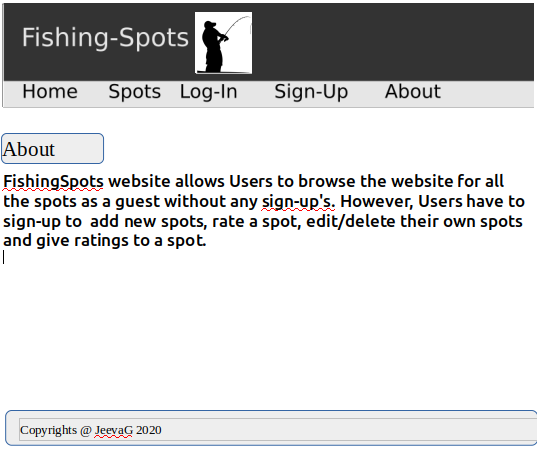
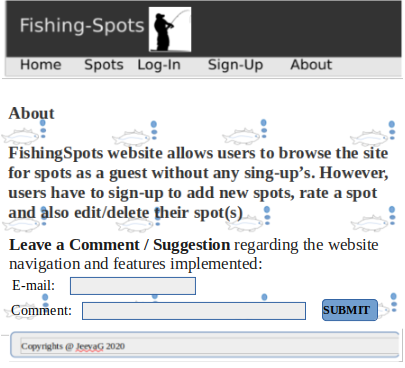
Indie project checkpoint#1 complete

diff --git a/ProjectPlan.md b/ProjectPlan.md
@@ -13,22 +13,94 @@
 ### Week 4
 
 - [ ] List technologies, versions and how they will be used
-- [ ] Weekly journal entry
+- [ ] Weekly timelog entry
 - Implement the changes from the feedback from checkpoint 1
 - [ ] Set up logging
-- [ ] Create class uml diagram
-
+- [ ] Added few more desing screens for spot-add, spot-edit and spot-delete. 
+- [ ] Finish projectPlan.md file.
 
 ### Week 5
+- [ ] Create class uml diagram
 - [ ] Complete database design
 - [ ] Create the database and tables
+- [ ] Weekly timeLog entry
 - [ ] Create DAO for atleast one table
 - [ ] Create the test database
 - [ ] Create user dao unit tests
+- [ ] Create the template for all jsps using bootstrap
+- [ ] Add jsp to add a user
+
+### Week 6
+
+- [ ] Create db on AWS
+- [ ] Deploy to AWS for first time
+- [ ] Weekly timeLog entry
+- [ ] Create spot table
+- [ ] Add the spot entity (test, dev and prod dbs)
+- [ ] Build the spot search jsp
+- [ ] Build the spot add/edit/delete jsp
+- [ ] Prepare for Checkpoint 2: Database designed and created, at least one DAO implemented with Hibernate, DAO is unit tested, Log4J is implemented (no System.out.printlns), class design and any other diagrams you plan to use have been created. 
+
+### Week 7
+
+- [ ] Weekly timeLog entry
+- [ ] Set up authentication locally
+- [ ] Set up authentication on AWS
+- [ ] Review and incorporate any feedback from Checkpoint 2.
 
 
-### Week 6 and following weeks
-TODO
+### Week 8
+
+- [ ] Weekly timeLog entry
+- [ ] Integration with google maps api
+- [ ] Spots.jsp page populated with spots and when clicked on a spot would pop up the rating and reviews for that sopt from the database.
+- [ ] Prepare for Checkpoint 3: Deployed to AWS, at least one JSP that displays data from the database is implemented. 
+
+### Week 9
+- [ ] Weekly timeLog entry
+- [ ] Review and incorporate feedback from Checkpoint 3.
+- [ ] Carefully review code for standards and best practices - use a code quality tool? 
+
+### Week 8
+- [ ] Weekly timeLog entry
+- [ ] Code review
+
+### Week 9
+- [ ] Weekly timeLog entry
+- [ ] Add password reset/reminder functionality
+
+### Week 10
+- [ ] Weekly timeLog entry
+- [ ] Unit test all api integrations
+
+### Week 11 - Team project work week
+- [ ] Weekly timeLog entry
+
+### Week 12 - Team project due
+- [ ] Weekly timeLog entry
+- [ ] Review indie project and create list of todos
+
+### Week 13
+- [ ] Weekly timeLog entry
+- [ ] Complete todos identified in week 12
+- [ ] Prepare for week 13 peer code reviews
+- [ ] Code quality check
+- [ ] Review rubric to make sure I'm on target
+
+### Week 14
+- [ ] Weekly timeLog entry
+- [ ] Create final presentation
+
+### Week 15
+- [ ] Final Presentation
+- [ ] Create video
+- [ ] Finalize all documentation
+- [ ] Code quality check
+
+### Week 16
+- [ ] Weekly timeLog entry
+- [ ] Final touches before code complete
+
 
 
 

diff --git a/TimeLog.md b/TimeLog.md
@@ -10,19 +10,22 @@
 | 9/8/2020| watched week1 videos and the follow up videos | 4 | |
 | 9/9/2020| worked on week1 exercise. Tried setting up tomcat on laptop | 3 | |
 | | |  | |
-| WEEK 2 deatials and exercises |  | |
+| WEEK 2 details and exercises |  | |
 | 9/10/2020| Watched a youtube video on IntelliJ presentation | 3 | |
 | 9/13/2020| Worked on week 2 activities, git practice and creating a new repository on github for individual project | 4 | |
 | 9/14/2020| Updated problem statement for individual project and created timelog.md file | 1 | |
 | 9/15/2020| Updated timelog.md with weekly activities. Finished activity3 of week2 | 2 | |
 | | |  | |
-| WEEK 3 deatials and exercises |  | |
+| WEEK 3 details and exercises |  | |
 | 9/17/2020| Did reading from class material for log4j-logging and JUnit-unit testing | 2 | |
 | 9/18/2020| Started working on weekly demos and activites by watching weekly videos | 4 | |
 | 9/19/2020| Finished the demos and activities by watching more weekly videos | 4 | |
-
-| WEEK 4 deatials and exercises |  | |
+| | |  | |
+| WEEK 4 details and exercises |  | |
 | 9/20/2020| Started wroking on the week 3 exercise and watched related videos | 4  | |
-| 9/22/2020| Finished week 3 exercise with captcha sum and 100% code coverage | 4  | |
-| 9/23/2020| Worked on indie project timelog, project plan, problem statement | 3 | |
+| 9/22/2020| Finished week 3 exercise with captcha sum and 100% code coverage and started working on indie project | 4  | |
+| 9/23/2020| Worked on indie project user stories, desing screens, timelog, project plan, and problem statement | 5 | |
+| 9/23/2020| Changed the layout of the spots screen by adding options for editing and deleting a spot | 2 | |
+| 9/24/2020| Added screen to add a spot by entering coordinates of a map and updated timeLog.md file | 3 | |
+
 

diff --git a/DesignDocuments/userStories.md b/DesignDocuments/userStories.md
@@ -8,37 +8,34 @@ As a guest, I can only view the fishing spots by location/area.
 
 As a new user, I can sign up and create an account. I can then upload a profile picture and also upload some pictures of fish caught from a particular spot. I can also add new fishing spots and even give a rating to the spots.
 
-### Sign In
+### Log In
 
 As a registered user I want to log in so that I can add or edit fishing spots and rate the spots.
 
-### Find Fishing Spots
+### Find Spots
 
-As any user I want to find spots by location/area.
+As any user I want to find spots by location/area or zipcode within a radius of specified miles pin-pointed on the map.
 
-### View Fishing Spot Report
+### Spot Info
 
-As any user, I can view a report on a particular spot.
+Clicking on a spot will pop up the rating and reviews for that spot. You can see the edit and delete options in this mode. 
 
-### View a Fishing spot
+### Add a Spot
 
-As any user, I want to be able to get in-depth information on a spot with reviews, pictures included. 
+As a registered user, I want to be able to add a fishing spot by entering the location coordinates.
+
+### Edit Spot
+
+As a registered user, I want to be able to edit the rating and review on a spot. 
+
+### Delete Spot
+
+As a registered user, I want to be able to delete my spot(s).
 
 ### About
 
 As a user I want to find out more information about this site and drop some suggestions/comments for the admin to improvise the website.
 
-### Add Spot Report
-
-As a registered user, I want to be able to add spot reports so that others can get to know about those spots.
-
-### Add/Edit Spot
-
-As a registered user, I want to be able to add a new spot and also edit my spots so that others can learn about those spots.
-
-
-
-r 
 
 
 
